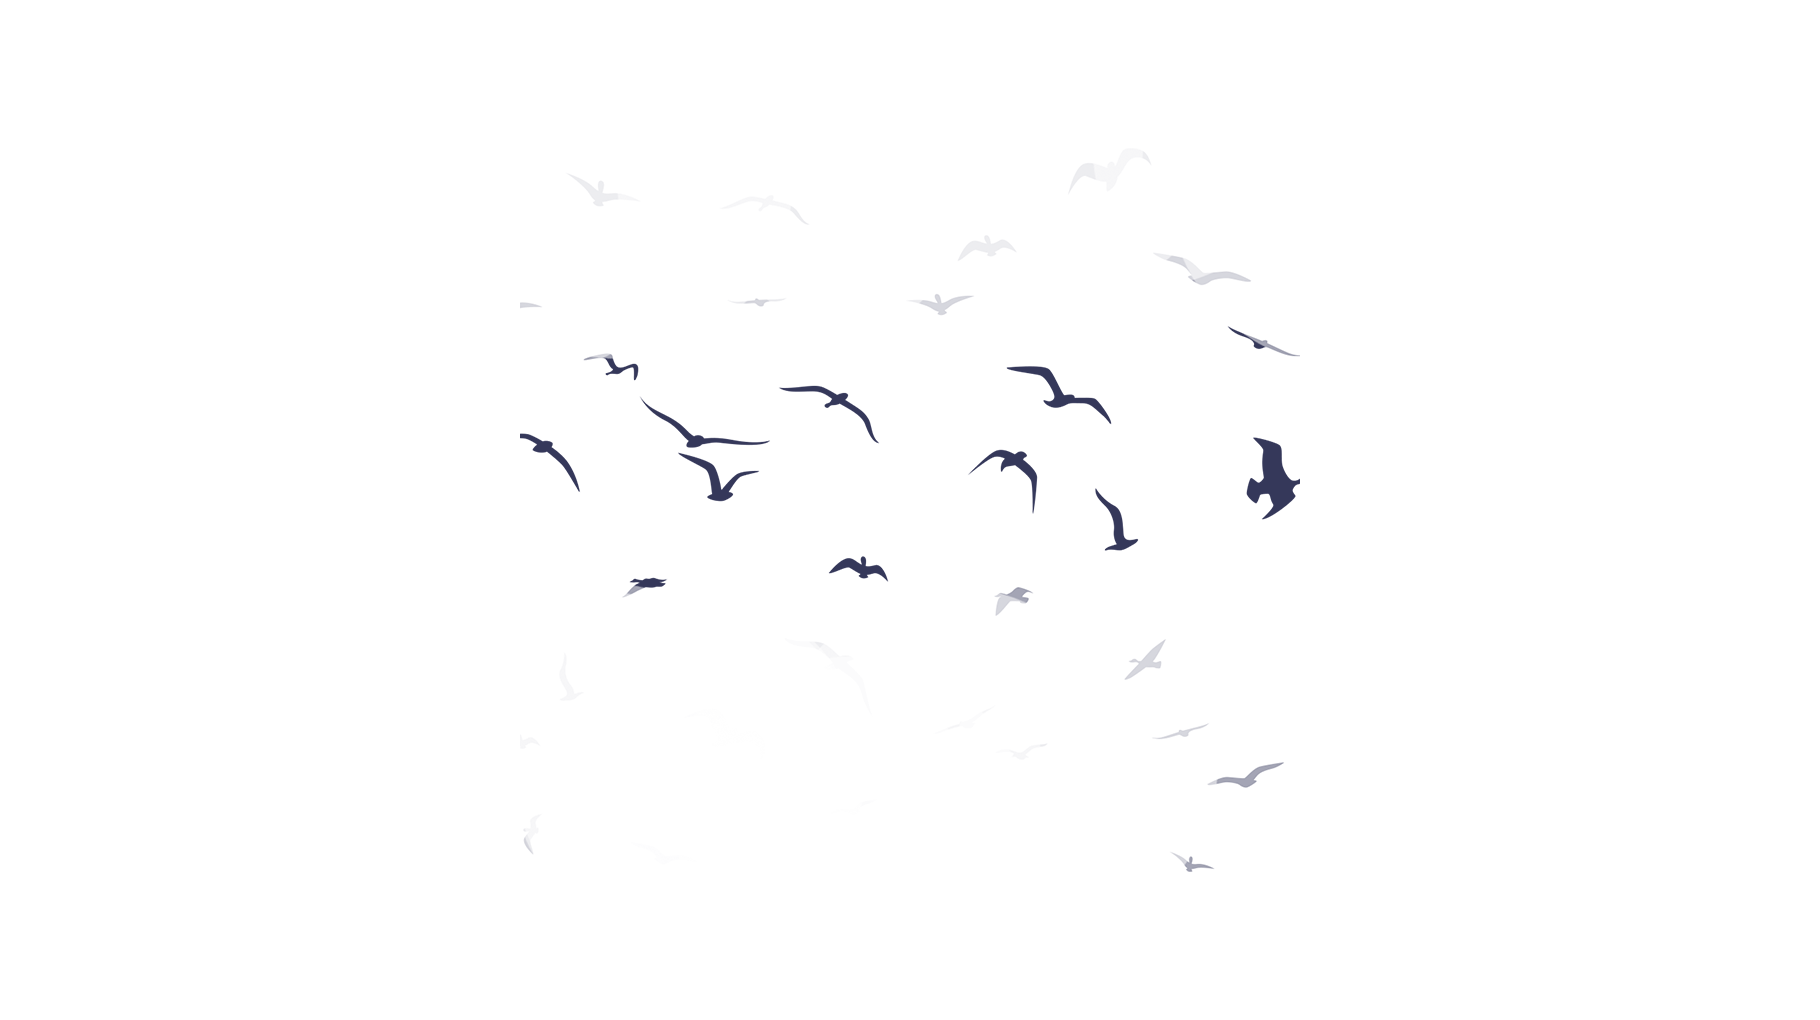
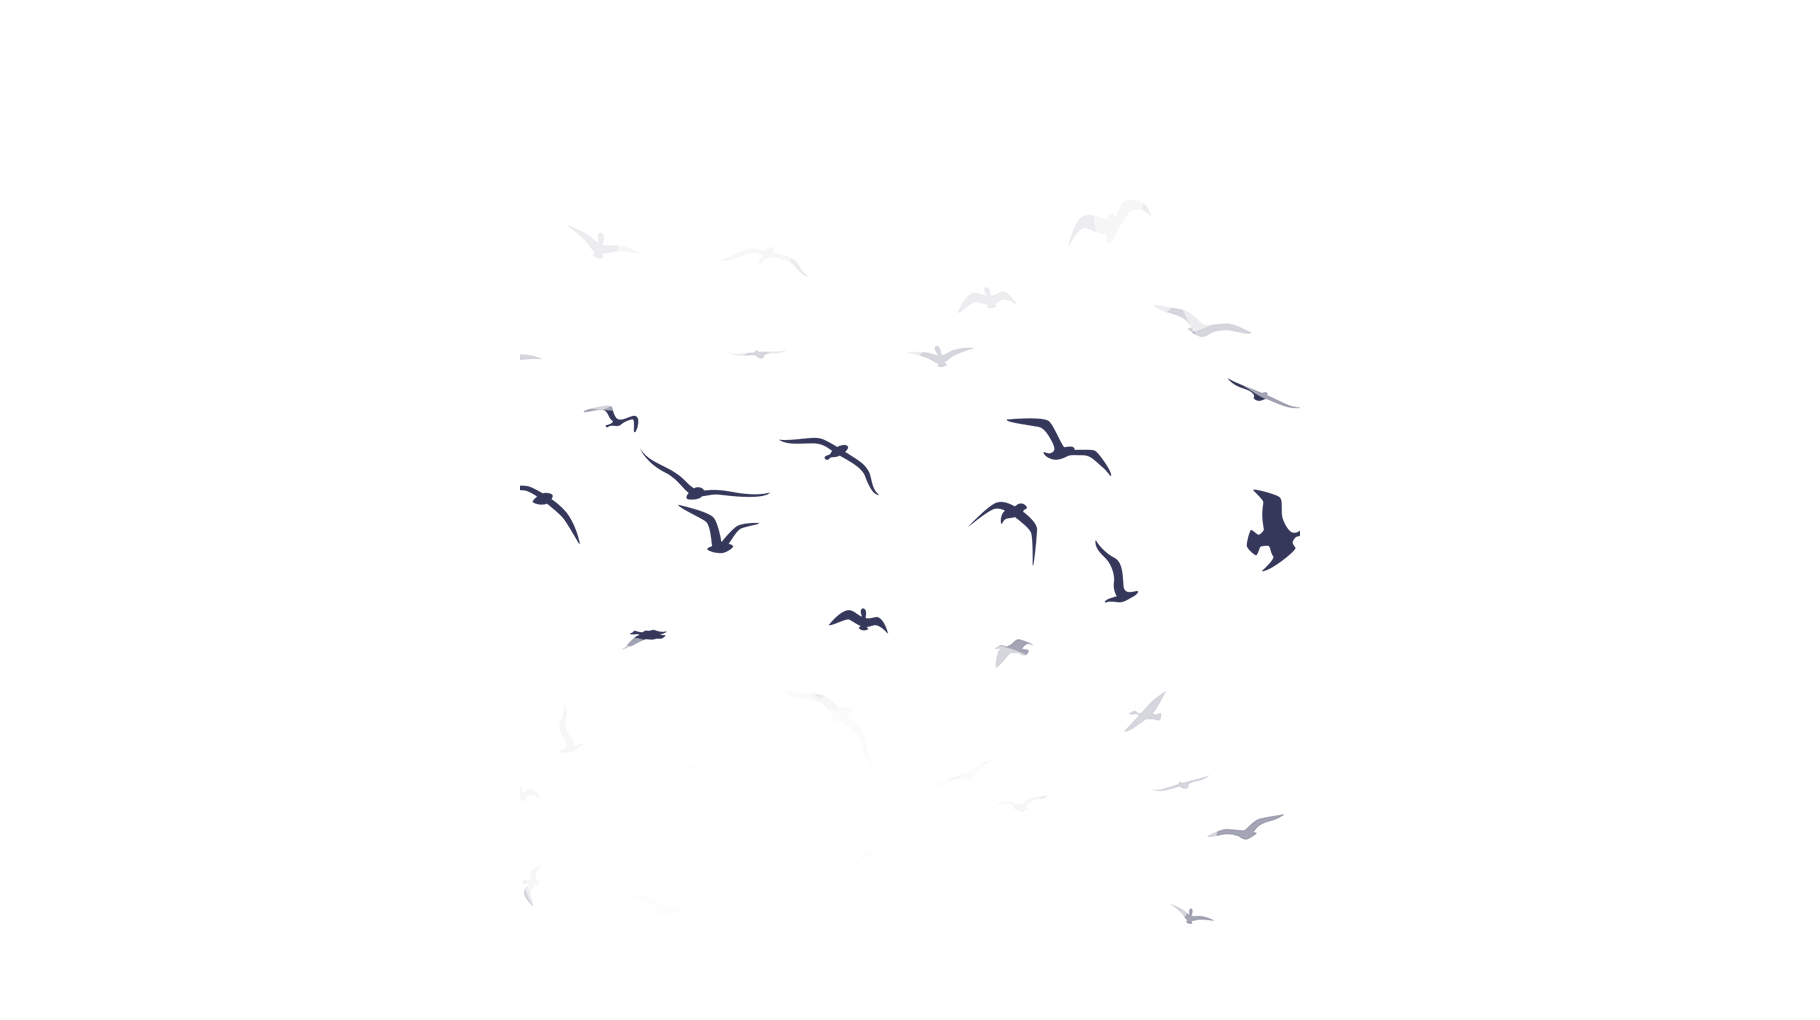
styling

diff --git a/src/sections/ParallaxBg.jsx b/src/sections/ParallaxBg.jsx
@@ -19,6 +19,7 @@ const ParallaxBg = () => {
             backgroundImage: "url(/assets/sky.jpg)",
             backgroundPosition: "bottom",
             backgroundSize: "cover",
+             y: planetX,
           }}
         ></div>
         <div
@@ -36,7 +37,7 @@ const ParallaxBg = () => {
             backgroundImage: "url(/assets/birds-2.png)",
             backgroundPosition: "bottom",
             backgroundSize: "cover",
-            y: mountain4Y,
+            y: mountain2Y,
           }}
         ></motion.div>
         <motion.div

diff --git a/src/sections/Hero.jsx b/src/sections/Hero.jsx
@@ -12,7 +12,7 @@ const Hero = () => {
   const isMobile = useMediaQuery({ maxWidth: 853 });
   return (
     <div>
-      <section className="flex items-start justify-center md:items-start md:justify-start min-h-screen overflow-hidden c-space">
+      <section className="flex items-center justify-center md:items-start md:justify-start min-h-screen overflow-hidden c-space">
         <HeroText />
         <ParallaxBg />
         <figure

diff --git a/src/sections/Navbar.jsx b/src/sections/Navbar.jsx
@@ -34,7 +34,7 @@ const Navigation = () => {
 const Navbar = () => {
   const [isOpen, setIsOpen] = useState(false);
   return (
-    <div className="fixed inset-x-0 z-20 w-full backdrop-blur-lg bg-primary/40">
+    <div className="fixed inset-x-0 z-20 w-full backdrop-blur-lg bg-primary/100">
       <div className="mx-auto px-10  max-w-7xl">
         <div className="flex items-center justify-between py-2 sm:py-0">
           <a
